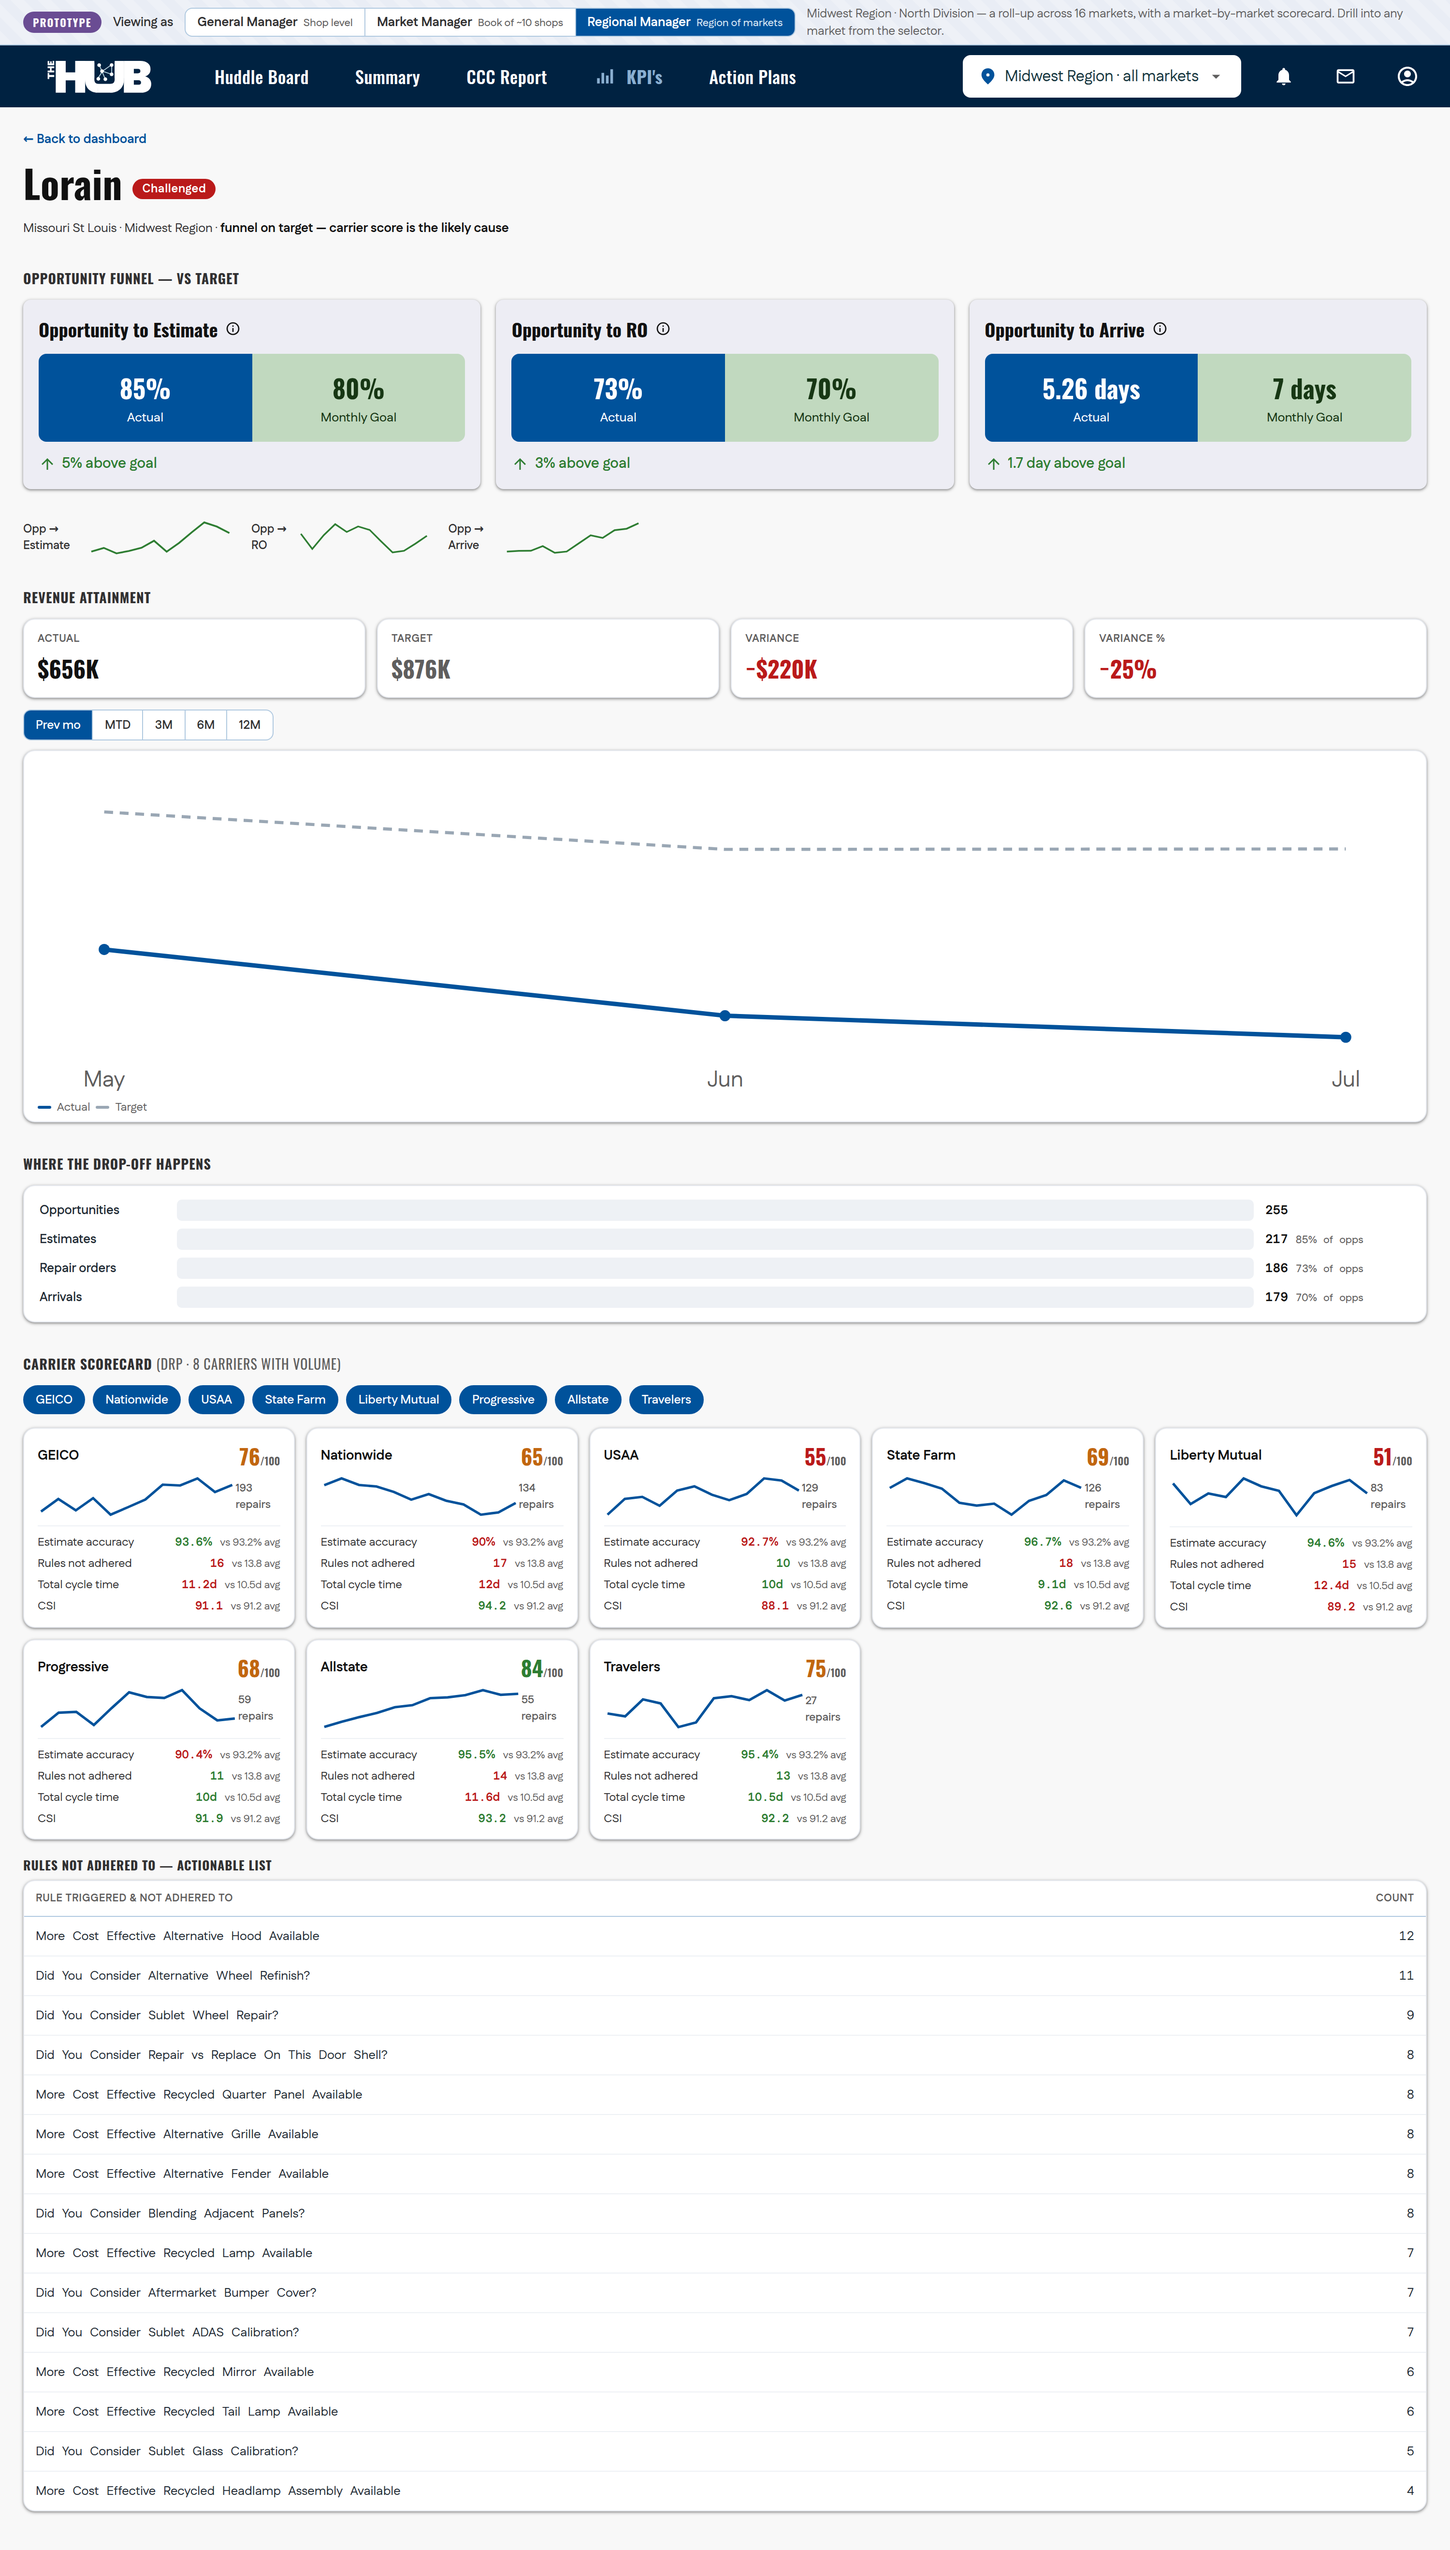
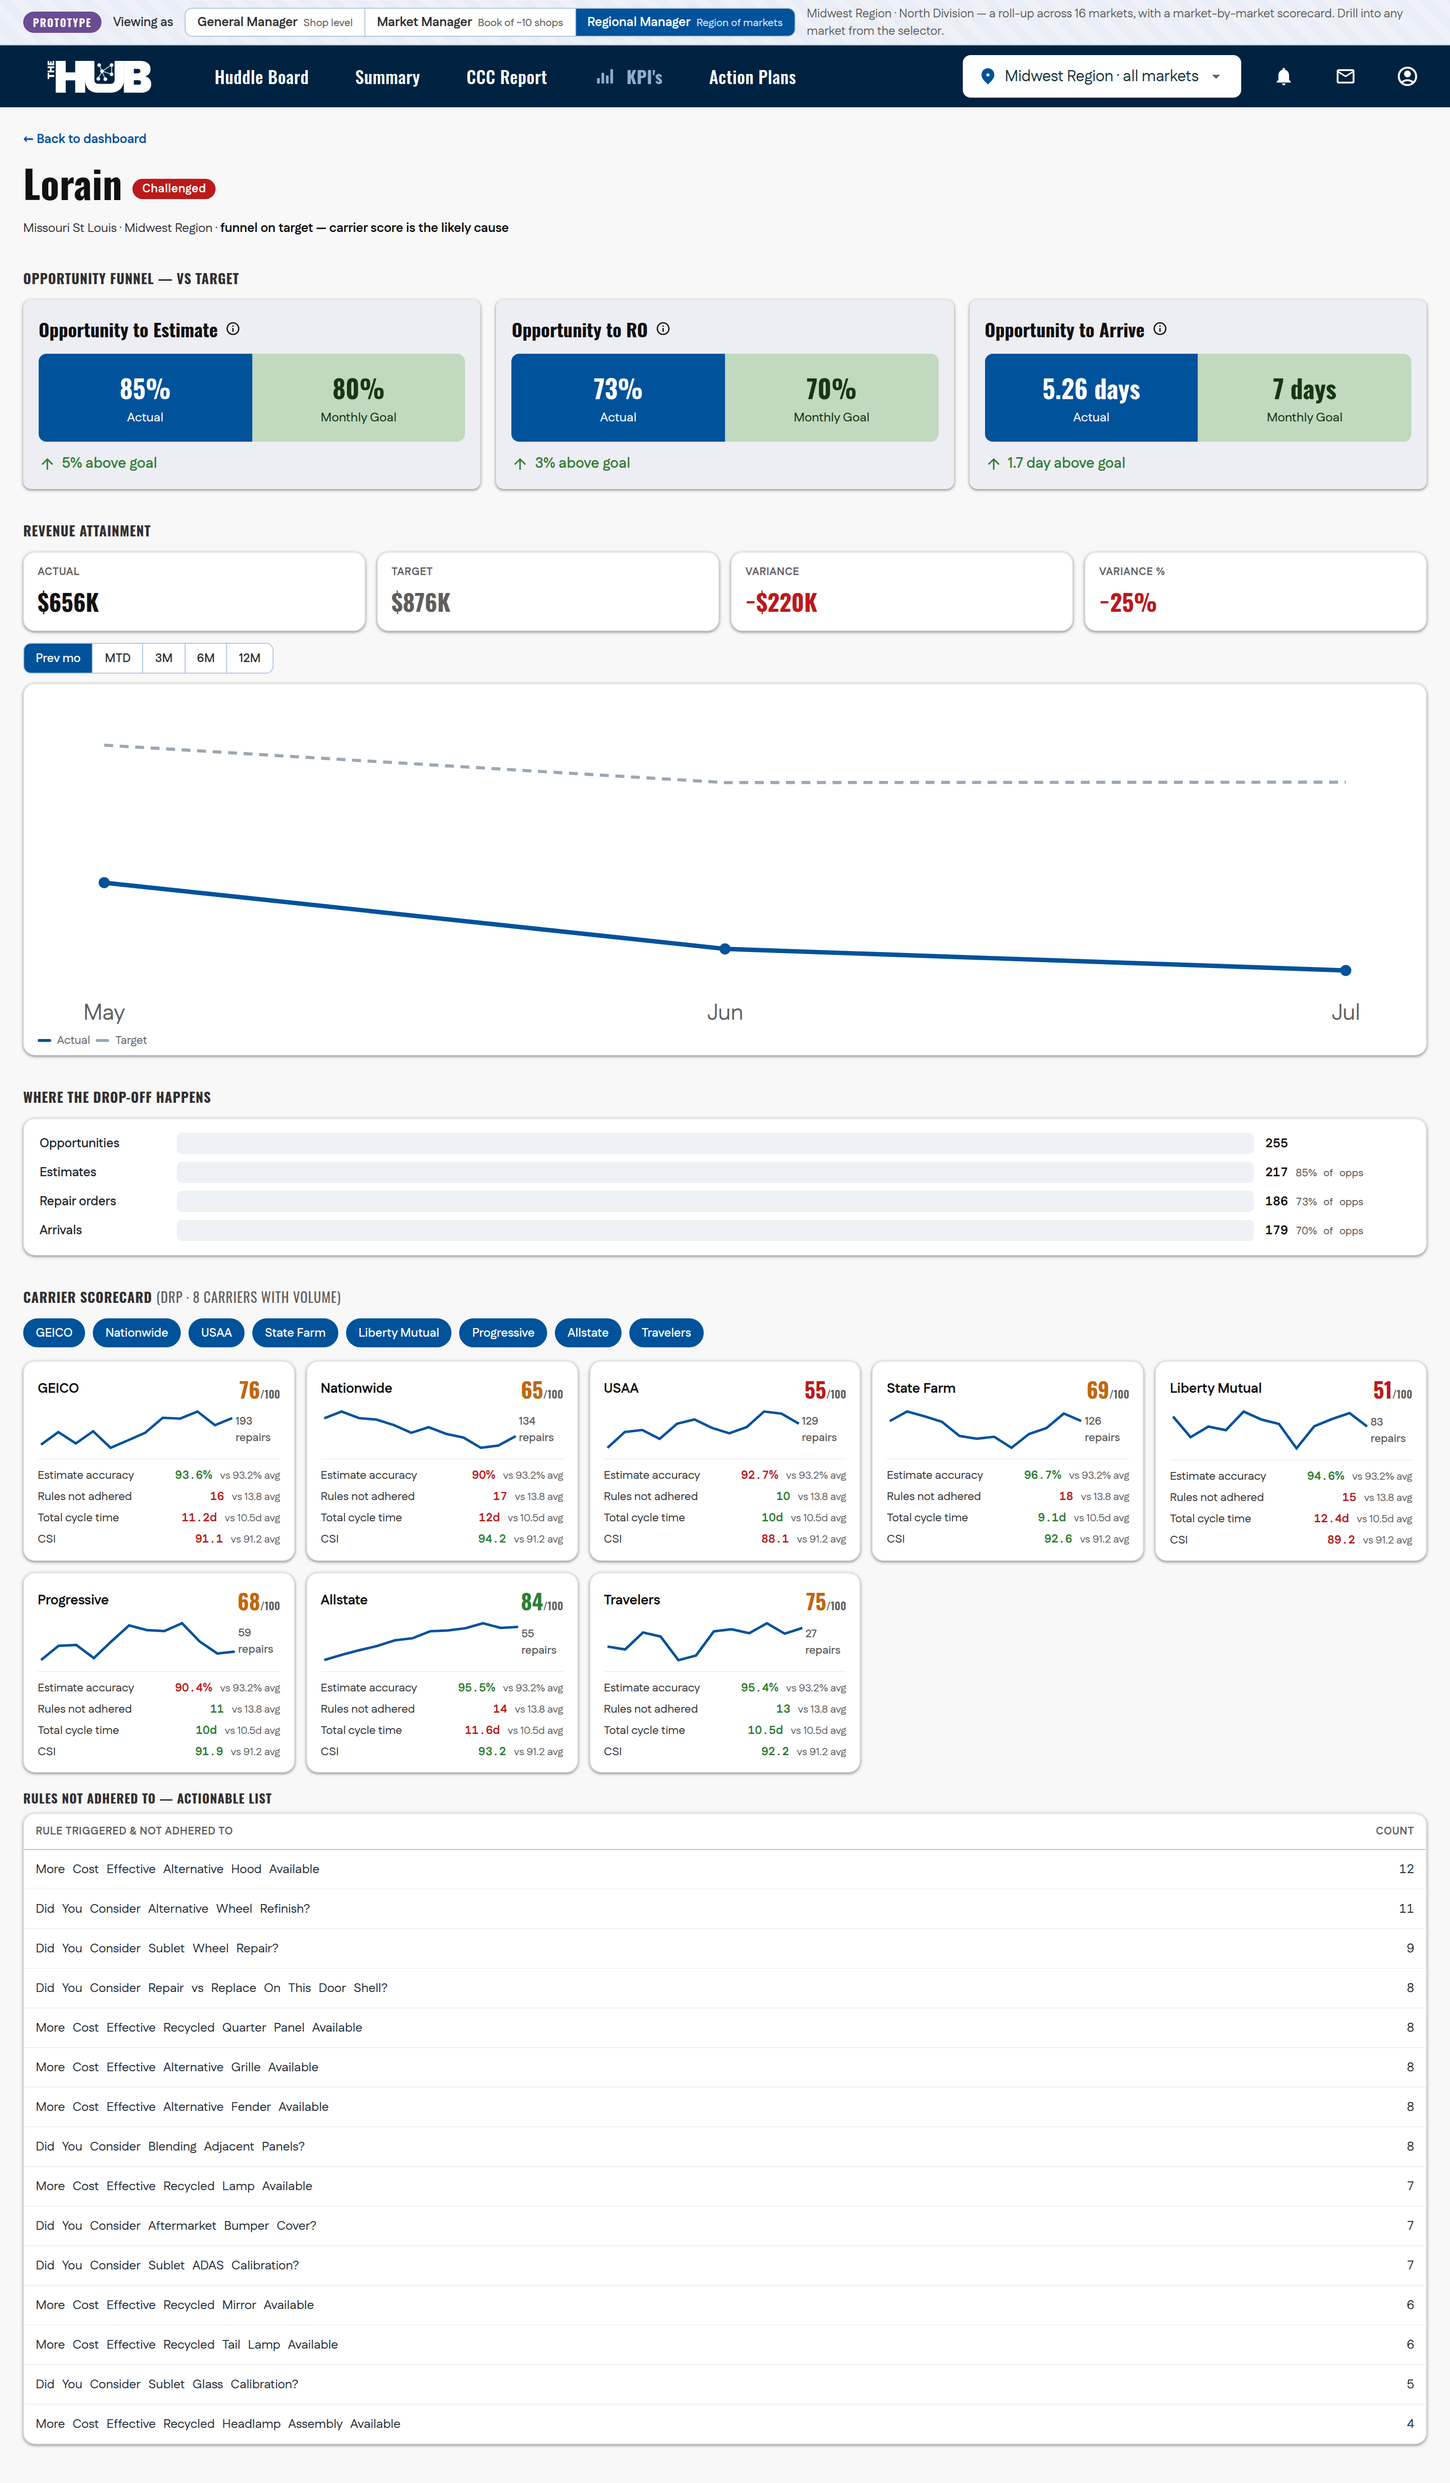
Shop detail: remove the funnel trend sparklines under the boxes
Drop the Opp → Estimate / Opp → RO / Opp → Arrive sparkline row beneath the
opportunity-funnel boxes; the funnel-vs-target boxes stay. Carrier-card trend
sparklines are unaffected.

Claude-Session: https://claude.ai/code/session_013BSpAv4JN11AdbKWqu4hxe

diff --git a/assets/app.js b/assets/app.js
@@ -840,14 +840,10 @@
       '<p class="kpi-title" data-testid="kpi-page-title">' + esc(d.name) + (challenged ? ' <span class="chal-badge">Challenged</span>' : '') + '</p>' +
       '<p class="mk-lead">' + esc(d.market) + ' · ' + esc(d.region) + (d.carrierOnly ? ' · <b>funnel on target — carrier score is the likely cause</b>' : '') + '</p></div>';
 
-    // funnel metrics vs target + trend (shown first on the shop detail)
+    // funnel metrics vs target (shown first on the shop detail)
     html += '<div class="kpi-section"><div class="kpi-section-title">Opportunity funnel — vs target</div>' +
       '<div class="kpi-funnel">' + FUNNEL.map(function (f) {
         return funnelBoxHTML(funnelAsMetric(f), d.funnel[f.key]);
-      }).join('') + '</div>' +
-      '<div class="fun-trends">' + FUNNEL.map(function (f) {
-        var col = funnelPass(f, d.funnel[f.key]) ? '#2e7d32' : '#ba1a1a';
-        return '<div class="fun-trend"><span class="ft-l">' + esc(f.label.replace('Opportunity to ', 'Opp → ')) + '</span>' + svgSpark(d.funnel.trend[f.key].map(function (p) { return p.value; }), col, 120, 30) + '</div>';
       }).join('') + '</div>' +
       '</div>';
 
